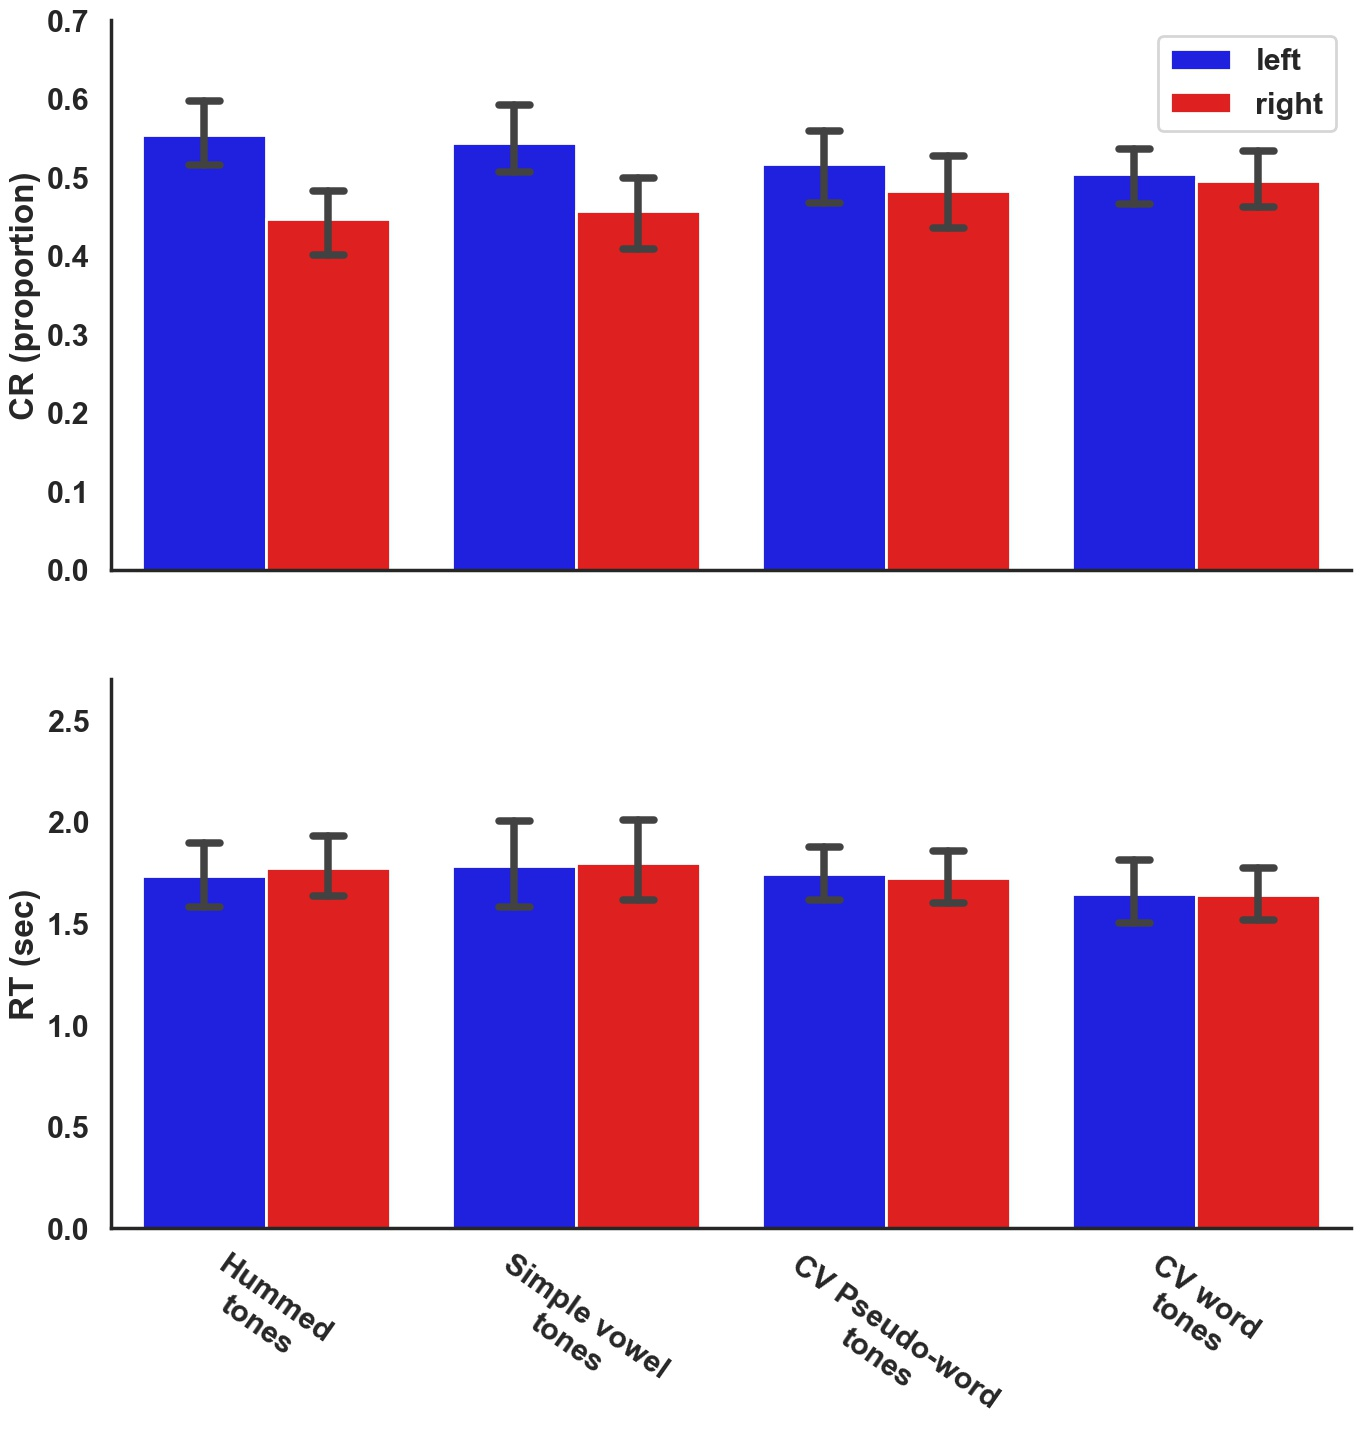
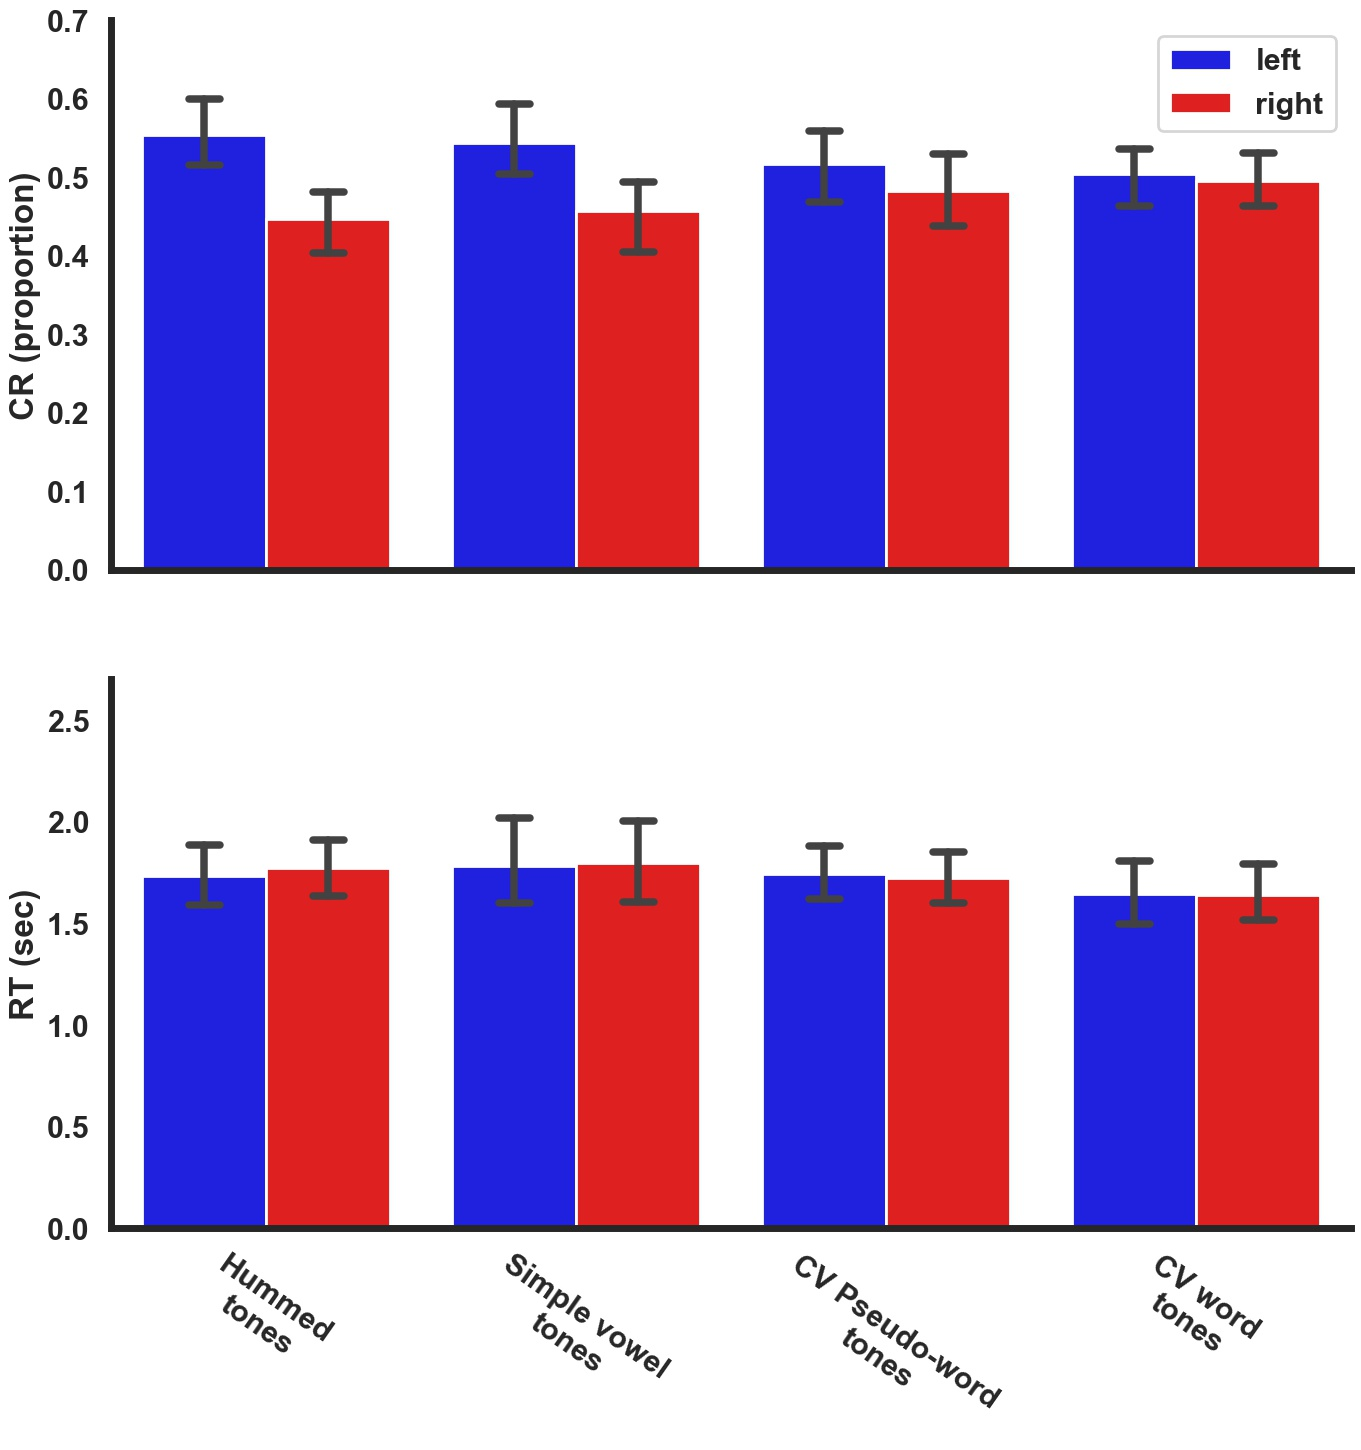
update

diff --git a/scripts/3.plot_results.py b/scripts/3.plot_results.py
@@ -21,6 +21,7 @@ sns.set_style('white')
 sns.set_context('poster')
 plt.rcParams["font.weight"] = "bold"
 plt.rcParams["axes.labelweight"] = "bold"
+plt.rcParams['axes.linewidth'] = 5
 
 def star(x):
     if x < 0.001:
@@ -336,54 +337,64 @@ c = pd.DataFrame(dict(experiment = ['experiment2'] * len(LI),
          ))
 #df_figure_5_concat = pd.concat([df_figure_5,c])
 
-fig,ax = plt.subplots(figsize = (16,8),)
-ax = sns.pointplot(x = 'condition',
-                   order = order_x,
-                   y = 'LI',
-                   data = df_figure_5,
-                   ax = ax,
-                   markers = '.',
-                   capsize = .1,
-                   color = 'black',
-                   alpha = 0.4,)
-ax.errorbar(x = 4,
-            y = LI.mean(),
-            yerr = LI.std()/np.sqrt(len(LI)),
-            color = 'black',
-            lw = 5.5,
-            capsize = 12,
-            capthick = 5,)
-ax.scatter(4,LI.mean(),
-           s = 60)
-xx = np.linspace(0,3,100)
+fig,ax = plt.subplots(figsize = (10,8),)
+xx = np.linspace(-0.05,3.05,100)
 yy = np.dot(xx.reshape(-1,1),weights.reshape(1,-1)) + intercepts
 yy_upper = yy.max(1)
 yy_lower = yy.min(1)
 ax.plot(xx,yy.mean(1),
         color = 'black',
         linestyle = '--',
-        label = 'estimated trend (mean)')
+        label = 'estimated trend (mean)',
+        alpha = 0.3,)
 ax.fill_between(xx,
                 yy_upper,
                 yy_lower,
                 color = 'red',
                 label = 'estimated trend (SE)',
                 )
+ax.scatter(np.arange(4),
+           y = df_figure_5.groupby('condition').mean()['LI'].values[[2,3,0,1]],
+           s = 70,
+           color = 'black',
+           alpha = 1.,)
+ax.errorbar(x = np.arange(4),
+            y = df_figure_5.groupby('condition').mean()['LI'].values[[2,3,0,1]],
+            yerr = df_figure_5.groupby('condition').std()['LI'].values[[2,3,0,1]]/np.sqrt(20),
+            color = 'black',
+            lw = 5.5,
+            capsize = 12,
+            capthick = 5,
+            linestyle = '',)
+ax.errorbar(x = 4.5,
+            y = LI.mean(),
+            yerr = LI.std()/np.sqrt(len(LI)),
+            color = 'black',
+            lw = 5.5,
+            capsize = 12,
+            capthick = 5,)
+ax.scatter(4.5,LI.mean(),
+           s = 70,
+           color = 'black',
+           alpha = 1.,)
 ax.annotate('***',
-            xy = (1.5,0.2),
+            xy = (1.5,0.12),
             size = 36,
             weight = 'bold')
 ax.legend(loc = 'upper right')
 ax.set(xlabel = '',
        ylabel = 'LI',
        ylim = (-0.15,0.25),
-       xticks = np.arange(5),
-       xticklabels = np.concatenate([order_x,['Complex word\ntones (Wang et al., 2001)']]))
+       xticks = np.concatenate([np.arange(4),[4.5]]),
+       xticklabels = np.concatenate([order_x,['Complex word\ntones (Wang et al., 2001)']]),
+       yticks = [-0.1,0,0.1,0.2])
 ax.set_xticklabels(ax.xaxis.get_majorticklabels(),
                    rotation = -35, 
                    ha = 'center',
                    weight = 'bold')
 sns.despine()
+ax.axhline(0,linestyle = '--',color = 'red',
+           lw = 4,)
 fig.savefig(os.path.join(figures_dir,
                         'figure 5.jpeg'),
            dpi = dpi,
